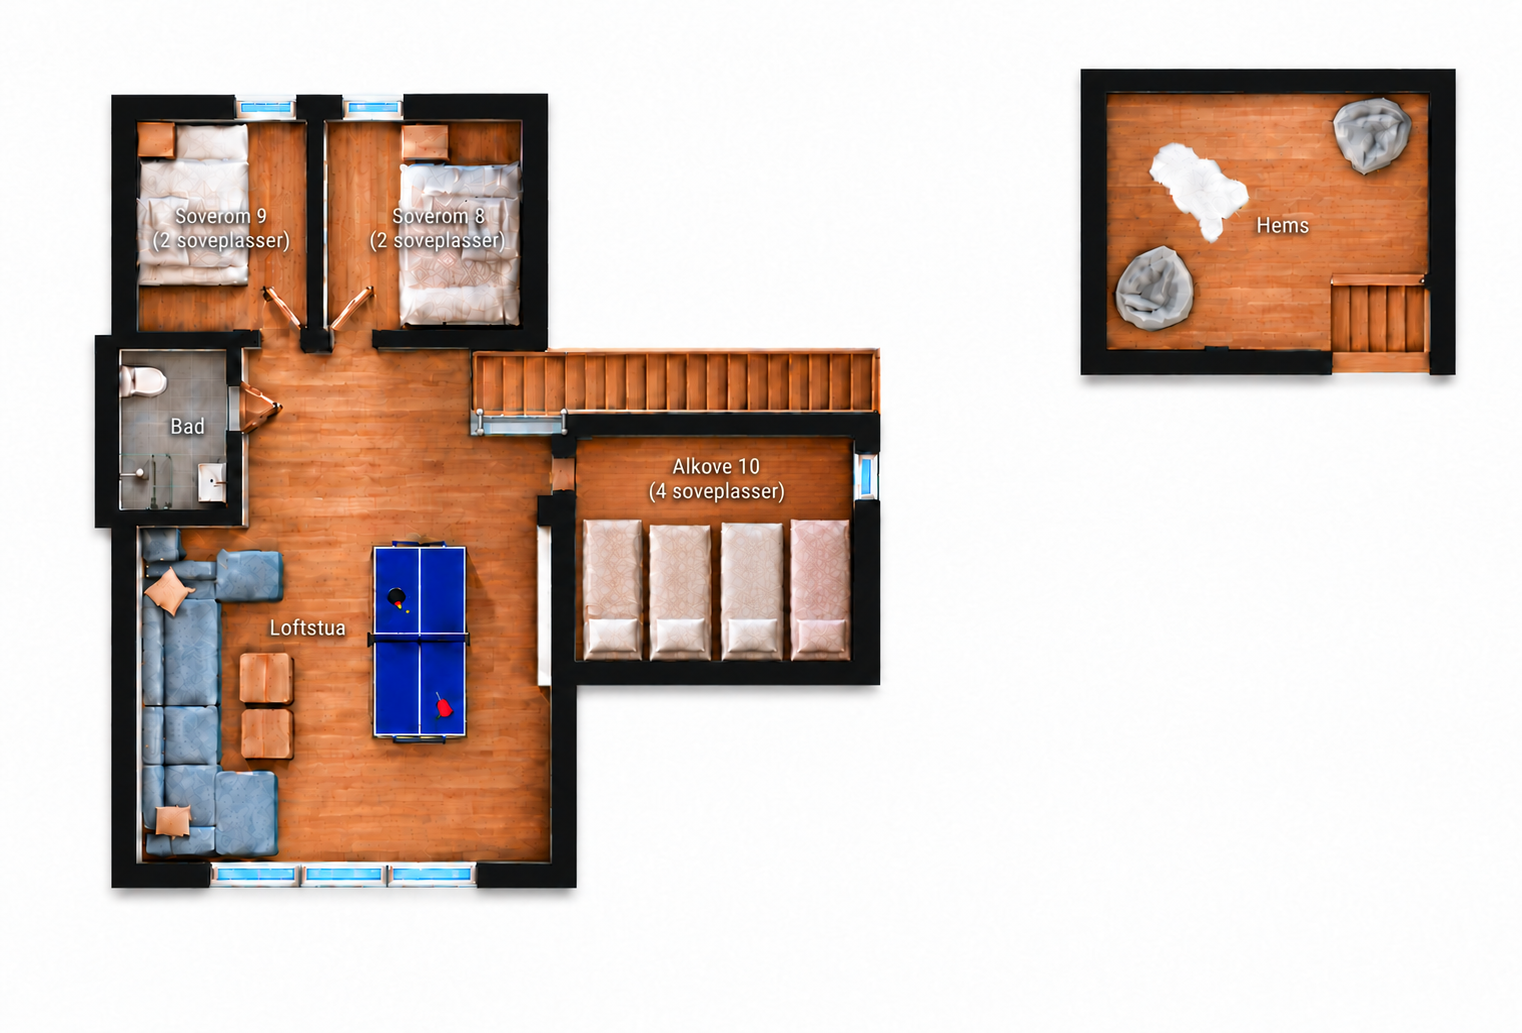
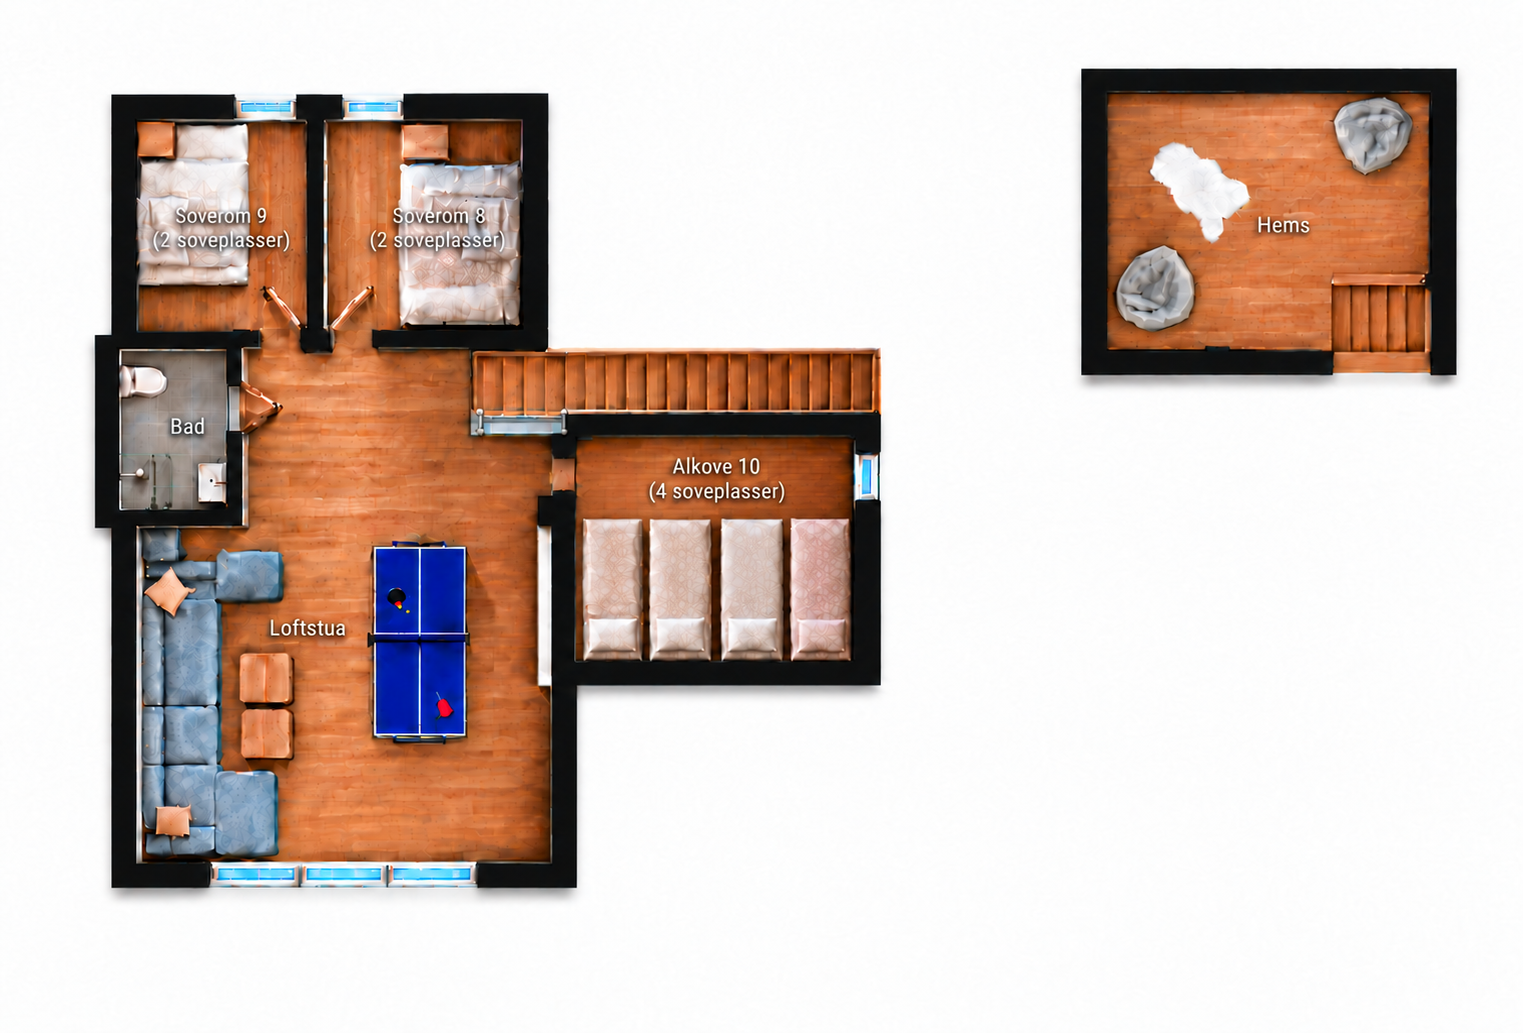
Refine floor widths, restore toilet sink and align alcove mattresses

diff --git a/docs/floor-plans.md b/docs/floor-plans.md
@@ -1,5 +1,60 @@
 # Three floor plans
 
+## Additional central AND right-wing narrowing, 31 October 2026
+
+Owner's latest redcircle reference C:/Users/kalaj/AppData/Local/Temp/codex-clipboard-27e57b25-d246-4d59-aa49-f848bb25e216.png explicitly requests the rightwing itself be narrower as well as centralBedrooms1–3/Gang/corridor. This supersedes preceding translation-only rightwing adjustment. Used current Norwegian drawing with restoredToalettRIGHT-wall washbasin (exec-7a2dd0a8-ef39-4d5e-836e-abbc4eed0df4.png) as primary source; retained aligned loft mattresses from preceding section. Built-in imagegen edit mode. First candidate exec-613910fb-8b6a-46bd-875a-b4768df6bc83.png narrowed rightwing; followup exec-f167a80a-0d9f-4552-952d-e2d3727d419a.png further shortens centralrow. English textlocalisation exec-1ffa3759-b169-4d4c-b38a-a31e5d39ca7a.png from selectedNorwegian. All outputs in C:/Users/kalaj/.codex/generated_images/01a0dca7-09e8-7432-9c4d-03c13b499591/.
+
+Final selected lowerfloor assets are public/images/floor-plan-lower.png from exec-f167a80a-0d9f-4552-952d-e2d3727d419a.png and public/images/floor-plan-lower-en.png from exec-1ffa3759-b169-4d4c-b38a-a31e5d39ca7a.png. Both wholeimages visually reviewed; Norwegian verified in site full-screenviewer. Preserve washbasin/toilet,all5bedroomcounts,26diningseats,saunaglass,3frontwindowgroups andleftwingarrangement. Mainfloor unmodified; loft alignment fromprecedingsectionincluded. Files copied without extra resizing/recompression; production build verified by connected Cloudflare CI before final publication confirmation.
+
+### centralRightNarrowNb
+```text
+Precise architectural edit. IMAGE1 current Norwegian lowerfloor plan is target. IMAGE2 redcircles identify CENTRALandRIGHTsections to make just a LITTLE NARROWER HORIZONTALLY. Reduce centralBedroom3/2/1 row width byabout7percenttotal (30–35pixels), each room a little narrower; shorten correspondinglongcorridor/upperBadandGang/centralterracewidthconsistently, north-southDEPTHunchanged. Keep Toalett slightlywiderascurrentlyandKEEPitsWHITEsmallSINKonRIGHTwallmidwaydown, toiletattop. HallwardrobeSTAYSABSENT. ALSO make RIGHTkitchen/diningwing's own horizontalWIDTH about7percent narrower (35–40pixels), unlikepreviouseditwhichonlytranslatedit. Keepitsnorth-southDEPTHunchanged. ShiftitLEFTasneededtoconnectcentralwing; rightoutsidewallendsabout70pixelsLEFTofcurrentposition. Keep exactallfurniture/fixtureSIZESandDESIGNS: tablewith26chairs(12eachside+1eachend),island,cabinets,fireplace,rightstairs,toprightstorage; recenter/reposition minimallywithinthenarrowerroom, doNOTcompressindividualobjects. Keepthreefrontwindowgroupsandallsidewindows,sameslimframes/design, adaptglassspanstothenarrowerwallonlyifneeded. Bedrooms1/2/3beds remaincurrentSIZE,north-southorientation/counts(3,3,2),bed3LEFTwith2TOPpillowsandsmallfootgap. LEFTwingbedrooms4/5,bathroom/sauna/glasswall,utilityroom,storage,leftstair remainUNCHANGEDsize/shape/position/contents. Keepwallthickness,allrooms,doors,fixtures,26chairs,labelwording/whitefontSIZE,materialsandsharpquality. No newroom/furniture, nofixture removal, no otherchanges. Samecompletewhitecanvas/resolution,nocrop/globalresize,redmarksmustnotappear. ONLYmodest7percenthorizontalnarrowingofCENTRALandRIGHTsectionsidentifiedinreference.
+```
+
+### centralRightFinalNb
+```text
+Precise LOCAL geometry correction. Keep current plan and alreadyNARROWER RIGHTwing. ONLY make CENTRALBedroom3/2/1 row visiblyaLITTLEnarrower, as previousedit hardlychangedit. Rowcurrentlyx435..945; shortenitbyabout45–50px total, toENDx895..900. Each of3roomwidths reducesabout12–16px; depthunchanged. Approxinteriorwidths Bedroom3=125px,Bedroom2=145px,Bedroom1=145px. Preserve ALLBEDactualwidths/lengths/orientation/pillows/currentdesign/counts. Longcorridor/terrace shortenmatching45px. Translate currententireRIGHTwingLEFT45pxASRIGIDUNCHANGEDshape: DO NOT resizeitagain, no changeitswindows/table/26chairs/kitchen/island/fireplace/stairs/storage. InuppercentralbandshortenBadslightlyabout15px, keepToalettWIDERthanearlierversionandsamefixturelayoutwithWHITEwashbasinonRIGHTwall andtoiletattop. MakeGangslightlynarrower/shiftleftasneededtoconnect. Keepallleftwing/stairs/bedrooms4/5/saunaglass/bath/utility/storageunchanged. Keep allwallthicknesses,fixtures,windowgroups,sanitarians,count26chairs,labelsverbatimNorwegianfontSIZE,materials,fullcanvasresolutionandsharpnessunchanged. DoNOTglobalresize,croporcompressfurniture. OnlycentralroomROWshortening45pxandrigidlefttranslationofunchangedrightwing toconnect. Nootheredits,nowardrobe,newroom,missingbasinorremoveddoors.
+```
+
+### centralRightEn
+```text
+Text localization ONLY of supplied FINAL narrower Norwegian lowerfloor plan. Preserve geometry/objects exactly. Fully erase ALL Norwegian lettering in each labelarea including on whiteBEDDING, restore underlyingtexture, then write clean English labels withNOghostlettersorstrayparentheses. Same whitefont,size,shadow andlabelcenters. Teknisk rom->Utility room;Bod(both)->Storage;Bad(both)->Bathroom;Toalett->Toilet;Gang->Hallway;Terrasse->Terrace;Sauna unchanged. Bedrooms exacttwo lines: Bedroom 1 / (Sleeps 3), Bedroom 2 / (Sleeps 3), Bedroom 3 / (Sleeps 2), Bedroom 4 / (Sleeps 4), Bedroom 5 / (Sleeps 4). Exactlyonepairparentheses,noleftoverNorwegiancharacters aroundEnglish. KeepnarrowercentralroomsANDnarrowerrightwing,currentbedwidths/lengths/orientation/pillows,WHITEwashbasin onToiletRIGHTwall,removedhallwardrobe,allwindows/doors/stairs/saunaglass,kitchen/island/fireplace/terrace,26chairs andtable unchanged. Keep crispquality/fullcanvasresolution; noextraedits/crop/resize. Texttranslationonly.
+```
+
+
+## Further central narrowing, wider toilet with sink, and aligned alcove mattresses, 31 October 2026
+
+Final English label cleanup: `exec-e35a9484-163b-4f2d-b43e-b8e7883e419c.png` supersedes `exec-cd48809e-9bc7-48ec-a302-c5c5d2ab683d.png` for `public/images/floor-plan-lower-en.png`. Read-only pixel inspection also compared mattress upper edges: Norwegian centre samples y519/520/519/519; English y521/521/521/521. Bottom frame boundary is common across the four mattresses (bedding shade varies). Exact cleanup prompt:
+
+```text
+Precise text cleanup ONLY on supplied English floorplan. Bedroom1,2,3 labels have faint LEFTOVER NORWEGIAN characters/parentheses around English secondlines on bedding. Completely REMOVE ALL old/ghost lettering within the three labelareas (Bedroom3 roughlyx450..575,y425..480; Bedroom2x610..740,y425..480; Bedroom1x785..920,y425..480), restoring bed/floortexture behind, then redraw EXACT clean TWOline labels centered in SAMEroomlocations, samewhitefont/size/shadow: 'Bedroom 3' / '(Sleeps 2)', 'Bedroom 2' / '(Sleeps 3)', 'Bedroom 1' / '(Sleeps 3)'. OnlyONEpairparentheses each. NOadditionalletters/glyphs/parentheses either side. Do not alter beds themselves,size,position,pillows,duvets,windowsorwalls. Preserve entireplan geometryandALLotherlabels, narrowHallway,widerToiletwithsmallRIGHTwallSINK,removedwardrobe,5bedrooms,26chairs,stairs,saunaglass,terrace,kitchen,island,qualityandfullcanvas. Nootherchanges. Only cleanlyreplace three bedroomlabels without ghosttext.
+```
+
+Owner requested a little more narrowing of lower-floor Bedrooms1–3/connecting corridor, a narrower Gang, slightly wider Toalett and restoration of the toilet washbasin at its original relative RIGHT-wall position. Source lowerfloor at a9ca74a; older exec-b1c62ce3-6289-4309-8ee5-3e73b5ecd4c1.png used ONLY as washbasin reference. White hallway wardrobe remains absent. Selected Norwegian exec-7a2dd0a8-ef39-4d5e-836e-abbc4eed0df4.png; English localised from it: exec-cd48809e-9bc7-48ec-a302-c5c5d2ab683d.png. Saved respectively to public/images/floor-plan-lower.png and floor-plan-lower-en.png.
+
+Also aligned all FOUR Alcove10 mattress upper ends on one horizontal line and equalised their lengths, retaining lower pillow ends. Owner reference C:/Users/kalaj/AppData/Local/Temp/codex-clipboard-099e6bcd-34bd-4e6c-a1a1-7d10377730aa.png. Source loft language assets at a9ca74a. Selected Norwegian exec-b612259c-c2a2-480d-a14d-55dc9278b734.png and English exec-81b1f83e-9d42-4d23-b0e7-9bff76175bfe.png saved to public/images/floor-plan-loft.png and floor-plan-loft-en.png. All outputs under C:/Users/kalaj/.codex/generated_images/01a0dca7-09e8-7432-9c4d-03c13b499591/, copied without extra image processing. Built-in imagegen edit mode. Four complete outputs visually inspected; Norwegian drawings verified in full-screen site viewer. Mainfloor untouched. Exact prompts:
+
+### alignedAlcoveNb
+```text
+Use case: precise-object-edit. IMAGE1 full current loft plan is EDIT TARGET. IMAGE2 owner's red horizontal line specifies EXACT ALIGNMENT of FOUR mattresses in Alkove10. Fix ONLY those four mattresses: ALL FOUR must have IDENTICAL LENGTH and their TOP/UPPER FOOT EDGES must form ONE STRAIGHT HORIZONTAL LINE, with NO mattress longer or shorter than itsneighbor. In1523pxwidecanvas set EVERY topedge to SAMEy525 (currenttopsvary520..526), and EVERYbottomedge to SAMEy660, so each has SAME135pxlength. Keep same widths, xpositions, equal narrow gaps, sidebysideorder, count4, beddingcolors/patterns, pillows atBOTTOM. Make top ends straight and level, no staggered duvets or bulges beyond commonline; slightmatchingroundedcorners allowed. This is only a tiny alignment correction, not a large shortening orlengthening. Bottom/pillowendsstayanchorednearbottomwall. Preserve everyotherpixel/content: allwalls/windows/doors,rooms8/9,bathroom,sofa,twocoffeetables,pingpong,bothstairs,glassrail,separateHems,ALLroomlabels/font/size,materials/lighting,fullcanvasandresolution. No redline/marks, no crop/globalresize, no newobjects. AllFOURmattresstopedges mustbe perfectlyflush, andallFOURbottomedgesflush. Preserve ALL NORWEGIAN labels EXACTLY, especially 'Alkove 10 (4 soveplasser)'.
+```
+
+### alignedAlcoveEn
+```text
+Use case: precise-object-edit. IMAGE1 full current loft plan is EDIT TARGET. IMAGE2 owner's red horizontal line specifies EXACT ALIGNMENT of FOUR mattresses in Alkove10. Fix ONLY those four mattresses: ALL FOUR must have IDENTICAL LENGTH and their TOP/UPPER FOOT EDGES must form ONE STRAIGHT HORIZONTAL LINE, with NO mattress longer or shorter than itsneighbor. In1523pxwidecanvas set EVERY topedge to SAMEy525 (currenttopsvary520..526), and EVERYbottomedge to SAMEy660, so each has SAME135pxlength. Keep same widths, xpositions, equal narrow gaps, sidebysideorder, count4, beddingcolors/patterns, pillows atBOTTOM. Make top ends straight and level, no staggered duvets or bulges beyond commonline; slightmatchingroundedcorners allowed. This is only a tiny alignment correction, not a large shortening orlengthening. Bottom/pillowendsstayanchorednearbottomwall. Preserve everyotherpixel/content: allwalls/windows/doors,rooms8/9,bathroom,sofa,twocoffeetables,pingpong,bothstairs,glassrail,separateHems,ALLroomlabels/font/size,materials/lighting,fullcanvasandresolution. No redline/marks, no crop/globalresize, no newobjects. AllFOURmattresstopedges mustbe perfectlyflush, andallFOURbottomedgesflush. Preserve ALL ENGLISH labels EXACTLY, especially 'Sleeping alcove 10 (Sleeps 4)'. Ignore Norwegian text inreference.
+```
+
+### centralFurtherNb
+```text
+Precise architectural edit. IMAGE1 current NARROWER Norwegian lowerfloor drawing is the EDIT TARGET. IMAGE2 older plan is reference ONLY for the small SINK inside Toalett, NOT overallgeometry/wardrobe. Owner requests a LITTLE MORE narrowing of central Bedrooms1,2,3 and corridor, but a slightlyWIDERToalett and NARROWERGang. Reduce the current Bedroom3–2–1 row's totalhorizontalspan by ONLYabout40–45pixels (roughly8percent), distributing a smallwidthreductiontoeachof3rooms; keeptheirnorth-southDEPTH. Remove no bedrooms. All beds retaincurrent dimensions/orientation/design/count (3:2sleepers,2:3,1:3); Bedroom3 staysLEFTverticalwithTWOpillowsatTOPandsmallfootgap. Shortenlongcorridorby40–45px. Shift entireRIGHTkitchen/diningwingLEFT40–45pxasRIGIDunchangedshape: samewidth,allwindowsgroups,kitchen,island,stairs,storage,fireplace,tableand26chairs unchangedsize/content; doNOTsqueeze/rightwingrescale. Centralterracewidthfollowsshorterconnection,samedepth/material. InUPPERcentralband, make Gang noticeablyNARROWER (current~160px becomes~100–110px), while Toalett becomes a LITTLEWIDER (current~90px becomes~115–120px) bymovingToalett/GangpartitionRIGHTabout25px and movingwholeGangrightboundleftwithwing. AdjacentBadslightlynarrowerifneededtofit. CRUCIAL restoreONEsmallWHITEwall-mountedWASHBASINinsideToalett atRIGHTWALL midwaydownroom (sameRELATIVEposition asIMAGE2, byrightwallbelowtoiletfixture). Toiletbowlstaystop, sinkrightwall clearlyvisible withdarkfaucet; noaddedfixtureselsewhere. Whitehallwardrobe remainsABSENT. PreserveALLLEFTwingbedrooms4/5,bath/sauna/glasswall,utility,storage,leftstairs unchangedshape/size/position. PreservewallTHICKNESS,sanitaryfixtureSIZE,allotherdoors/windows,exactNorwegianlabels/fontSIZE andnumbers/counts,repositionlabelsinsideadjustedrooms. Wholecanvas1721x914withmorewhitespaceonright, doNOTgloballyresize/crop. Keep crisp highqualityfloorgrain,tilegrout,sharpedges. OnlyslightfurtherCENTRALnarrowing+Gangnarrower+ToalettwiderwithitsoriginalrightwallSINKrestored.
+```
+
+### centralFurtherEn
+```text
+Text-localization ONLY. Translate all Norwegian labels in this final corrected lower-floor drawing into ENGLISH, preserving ALL geometry/furniture/fixtures and quality exactly. Teknisk rom->Utility room;Bod(both)->Storage;Bad(both)->Bathroom;Toalett->Toilet;Gang->Hallway;Terrasse->Terrace;Sauna unchanged. Bedrooms exactly2lines: Bedroom 1 (Sleeps 3),Bedroom 2 (Sleeps 3),Bedroom 3 (Sleeps 2),Bedroom 4 (Sleeps 4),Bedroom 5 (Sleeps 4). Same whitefontfamily,FONT SIZE,shadow,labelcenters,proper spaces. Fully erase Norwegian text before replacing, no ghostletters/strayparentheses. Especially preserve NEW small WHITEWASHBASIN onToiletRIGHTwall midwaydown (alongwithtoiletbowlattop), slightlyWIDERToilet,NARROWERHallway,narrowerBedrooms1–3,longcorridor,removedwardrobe,allbedsincludingbed3LEFTverticalTWOpillowsandfootgap,26chairs,allwindows,stairs,saunaglass,kitchen/table/island/fireplace/terrace. Samefullcanvas/resolution/cleardetails. No extraedits, no scaling,crop,redesign,fixture removalornewwardrobes.
+```
+
+
 ## Narrower lower-floor central rooms and slight alcove trim, 31 October 2026
 
 Owner requested narrower Bedrooms1–3 plus the corresponding bathroom/corridor/hallway, and removal of the white hallway wardrobe beside Toalett. Target approximately15percent less width for the central bedroom row; right kitchen/dining wing translated left to keep connection, central terrace shortened correspondingly. Preserve left-wing arrangement, sanitary fixtures, sleeping counts, sauna glass, dining seats and window groups. Drafts reviewed and corrected where the rightwing/stair/furniture proportions drifted. Final clarity pass restores crisp edges/material detail; English labels applied cleanly. These remain presentation illustrations rather than measured construction drawings.
